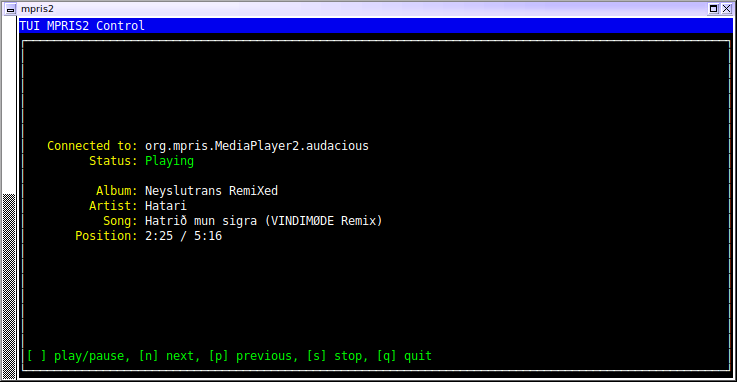
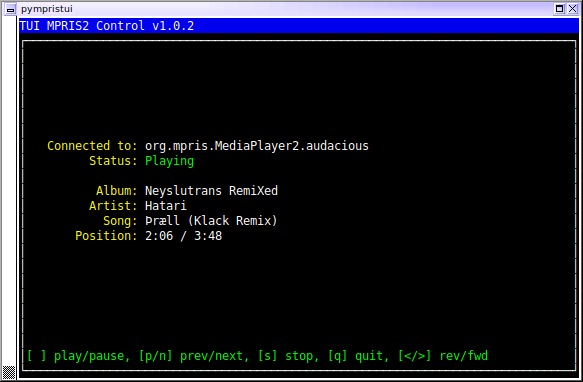
Releasing v1.0.2, with support for seeking

Changed region(s): [[0.0, 0.0, 0.8336, 1.0], [0.9262, 0.0, 1.0, 1.0], [0.0926, 0.4895, 0.5249, 0.6335]]

diff --git a/pympristui.py b/pympristui.py
@@ -26,7 +26,7 @@ import mpris2
 import argparse
 
 app_desc = 'TUI MPRIS2 Control'
-__version__ = '1.0.1'
+__version__ = '1.0.2'
 
 def decimal_to_time(secs):
     m, s = divmod(secs, 60)
@@ -39,6 +39,8 @@ class TUIPlayer(object):
     KEY_PREV = 'p'
     KEY_STOP = 's'
     KEY_QUIT = 'q'
+    KEY_REV = '<'
+    KEY_FWD = '>'
 
     def __init__(self, player_str):
 
@@ -104,10 +106,10 @@ class TUIPlayer(object):
         keys = []
         for key, label in [
                 (TUIPlayer.KEY_PAUSE, 'play/pause'),
-                (TUIPlayer.KEY_NEXT, 'next'),
-                (TUIPlayer.KEY_PREV, 'previous'),
+                ('{}/{}'.format(TUIPlayer.KEY_PREV, TUIPlayer.KEY_NEXT), 'prev/next'),
                 (TUIPlayer.KEY_STOP, 'stop'),
                 (TUIPlayer.KEY_QUIT, 'quit'),
+                ('{}/{}'.format(TUIPlayer.KEY_REV, TUIPlayer.KEY_FWD), 'rev/fwd'),
                 ]:
             keys.append('[{}] {}'.format(key, label))
         main_pile.contents.append((
@@ -155,6 +157,12 @@ class TUIPlayer(object):
                 self.player.Next()
             elif key == TUIPlayer.KEY_PREV:
                 self.player.Previous()
+            elif key == TUIPlayer.KEY_REV:
+                if self.status != 'Stopped':
+                    self.player.Seek(-10*1000000)
+            elif key == TUIPlayer.KEY_FWD:
+                if self.status != 'Stopped':
+                    self.player.Seek(10*1000000)
         return []
 
     def update_status(self):

diff --git a/README.md b/README.md
@@ -81,13 +81,15 @@ instance:
 Using `instance319681` or even `319681` would also match that Firefox instance.
 
 Once it's started, the app just provides the simple controls pause/play/stop,
-next track, and previous track, along with the basic information about what's
+next/previous track, and seeking, along with the basic information about what's
 being played currently.  It only accepts keyboard input, with the following
 keybinds:
 
  - `space` - play/pause
  - `n` - next track
  - `p` - previous track
+ - `<` - Seek 10 seconds back
+ - `>` - Seek 10 seconds forward
  - `s` - stop
  - `q` - quit
 
@@ -102,7 +104,7 @@ playing audio will continue to run as usual.
    so I didn't look into it any further.  As such, control in the app is limited
    to play/pause/stop, next, and prev.  There's no tracklist visibility, or ability
    to hop around with any control other than next/prev.
- - I didn't implement in-track seeking or volume control.
+ - I didn't implement volume control.
  - The onscreen text just updates every second, so there'll often be a noticeable
    (though brief) lag between hitting a command and having the info update onscreen.
    The commands should be executed immediately, though.
@@ -117,6 +119,9 @@ All code in this project is licensed under the
 provided in [COPYING.txt](COPYING.txt).
 
 # Changelog
+
+**v1.0.2** - March 3, 2021
+ - Added forward/reverse seeking
 
 **v1.0.1** - February 26, 2021
  - Use blue coloration for `Paused` notification
